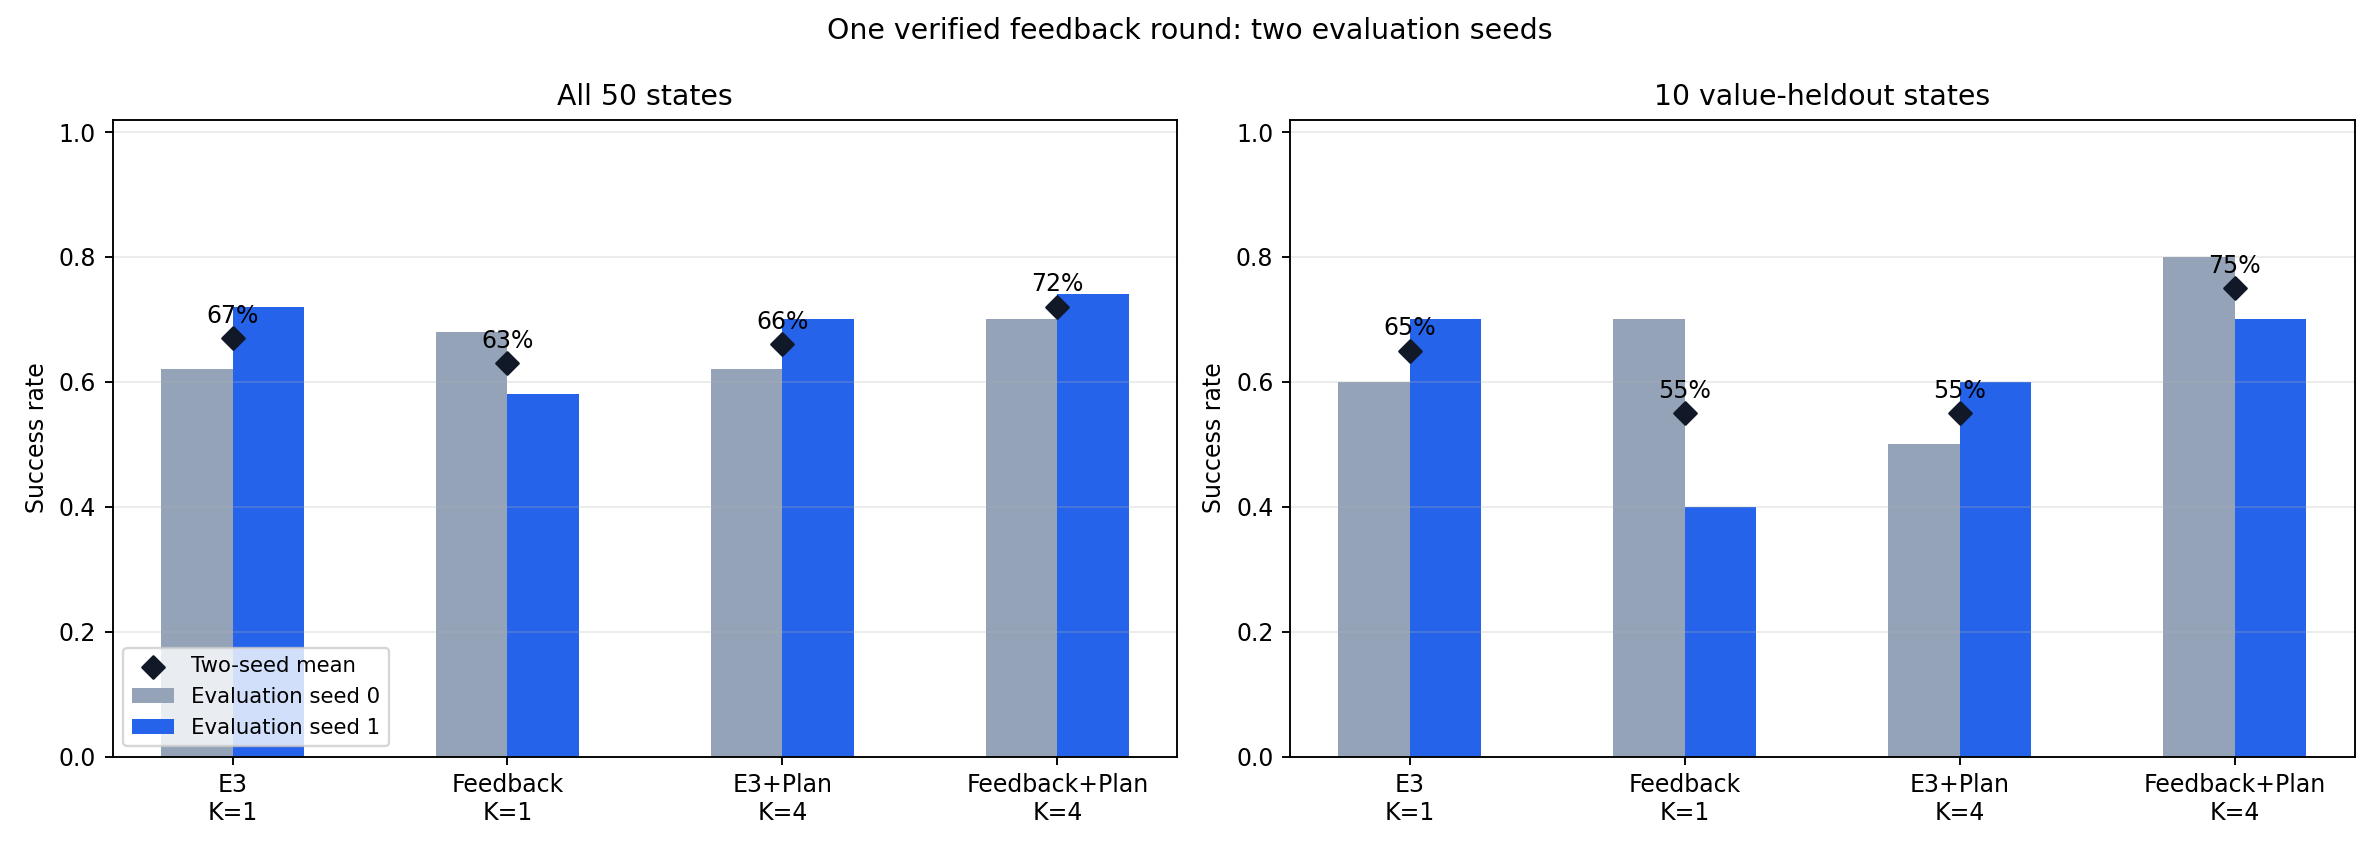
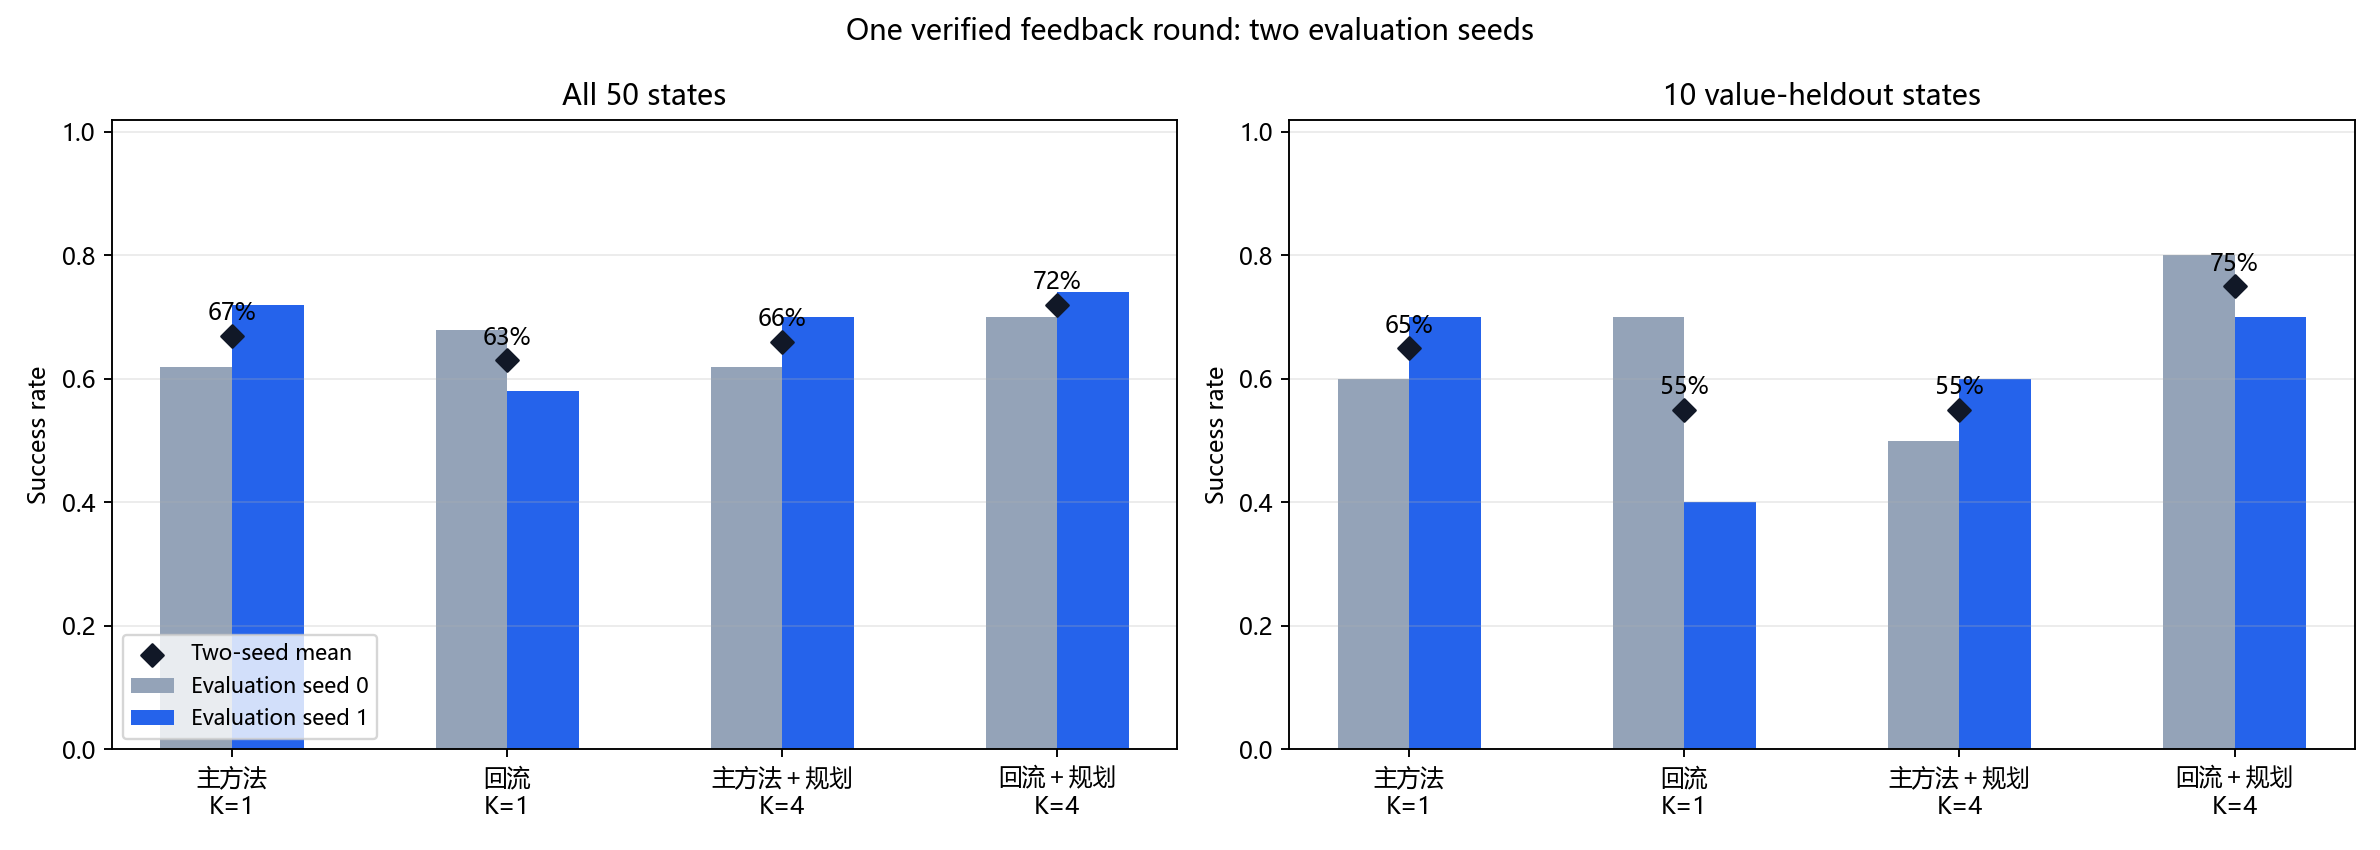
Rename main method on results page

diff --git a/results.html b/results.html
@@ -11,9 +11,9 @@
 <header class="topbar"><nav class="nav" aria-label="页面导航"><a class="brand" href="index.html">SelfEvoVLA</a><a href="index.html" class="">概览</a><a href="method.html" class="">方法</a><a href="results.html" class="active">实验结果</a><a href="demo.html" class="">视频演示</a><a href="data.html" class="">实验数据</a></nav></header>
 <div class="hero"><div class="wrap"><div class="kicker">SelfEvoVLA · 开源研究项目</div><h1>实验结果：有效提升与无效模块都如实呈现</h1><p class="lead">三任务结果、留出状态、两轮回流、K 消融和训练曲线集中展示，便于快速核对数字与结论。</p></div></div>
 <main class="wrap">
-<section><div class="section-head"><div class="kicker">01 · 三任务主结果</div><h2>RIPT 宏平均从 61.3% 提升至 74.7%</h2><p>每个任务使用一个策略训练 seed 和 50 个固定初始状态。主任务采用本轮 K=1 受控口径，与早期单任务历史评估分开。</p></div><div class="table-wrap"><table><thead><tr><th>任务</th><th>SFT</th><th>有界 RIPT</th><th>SFT＋规划</th><th>RIPT＋规划</th></tr></thead><tbody><tr><td>主任务</td><td>31/50（62.0%）</td><td>31/50（62.0%）</td><td>30/50（60.0%）</td><td>31/50（62.0%）</td></tr><tr><td>任务 5</td><td>33/50（66.0%）</td><td>37/50（74.0%）</td><td>28/50（56.0%）</td><td>39/50（78.0%）</td></tr><tr><td>任务 6</td><td>28/50（56.0%）</td><td>44/50（88.0%）</td><td>25/50（50.0%）</td><td>37/50（74.0%）</td></tr><tr class="highlight"><td>宏平均</td><td><strong>61.3%</strong></td><td><strong>74.7%</strong></td><td><strong>55.3%</strong></td><td><strong>71.3%</strong></td></tr></tbody></table></div>
+<section><div class="section-head"><div class="kicker">01 · 三任务主结果</div><h2>RIPT 宏平均从 61.3% 提升至 74.7%</h2><p>每个任务使用一个策略训练 seed 和 50 个固定初始状态。主任务采用本轮 K=1 受控口径，与早期单任务历史评估分开。</p></div><div class="table-wrap"><table><thead><tr><th>任务</th><th>SFT</th><th>主方法</th><th>SFT＋规划</th><th>主方法＋规划</th></tr></thead><tbody><tr><td>主任务</td><td>31/50（62.0%）</td><td>31/50（62.0%）</td><td>30/50（60.0%）</td><td>31/50（62.0%）</td></tr><tr><td>任务 5</td><td>33/50（66.0%）</td><td>37/50（74.0%）</td><td>28/50（56.0%）</td><td>39/50（78.0%）</td></tr><tr><td>任务 6</td><td>28/50（56.0%）</td><td>44/50（88.0%）</td><td>25/50（50.0%）</td><td>37/50（74.0%）</td></tr><tr class="highlight"><td>宏平均</td><td><strong>61.3%</strong></td><td><strong>74.7%</strong></td><td><strong>55.3%</strong></td><td><strong>71.3%</strong></td></tr></tbody></table></div>
 <figure class="figure"><img src="assets/multitask_results.png" alt="三任务全量、留出状态和价值指标图"></figure></section>
-<section><div class="section-head"><div class="kicker">02 · 留出状态</div><h2>规划的收益没有迁移到价值留出状态</h2><p>最后 10 个初始状态不参与价值模型训练或回流。三个任务的 RIPT＋Planning 均低于对应 RIPT，不能选择性使用 Task 5 的全量 78% 作为普遍结论。</p></div><div class="table-wrap"><table><thead><tr><th>任务</th><th>SFT</th><th>有界 RIPT</th><th>SFT＋规划</th><th>RIPT＋规划</th></tr></thead><tbody><tr><td>主任务</td><td>7/10（70.0%）</td><td>6/10（60.0%）</td><td>4/10（40.0%）</td><td>5/10（50.0%）</td></tr><tr><td>任务 5</td><td>5/10（50.0%）</td><td>7/10（70.0%）</td><td>3/10（30.0%）</td><td>5/10（50.0%）</td></tr><tr><td>任务 6</td><td>8/10（80.0%）</td><td>10/10（100.0%）</td><td>2/10（20.0%）</td><td>8/10（80.0%）</td></tr><tr class="highlight"><td>宏平均</td><td><strong>66.7%</strong></td><td><strong>76.7%</strong></td><td><strong>30.0%</strong></td><td><strong>60.0%</strong></td></tr></tbody></table></div></section>
+<section><div class="section-head"><div class="kicker">02 · 留出状态</div><h2>规划的收益没有迁移到价值留出状态</h2><p>最后 10 个初始状态不参与价值模型训练或回流。三个任务的 RIPT＋Planning 均低于对应 RIPT，不能选择性使用 Task 5 的全量 78% 作为普遍结论。</p></div><div class="table-wrap"><table><thead><tr><th>任务</th><th>SFT</th><th>主方法</th><th>SFT＋规划</th><th>主方法＋规划</th></tr></thead><tbody><tr><td>主任务</td><td>7/10（70.0%）</td><td>6/10（60.0%）</td><td>4/10（40.0%）</td><td>5/10（50.0%）</td></tr><tr><td>任务 5</td><td>5/10（50.0%）</td><td>7/10（70.0%）</td><td>3/10（30.0%）</td><td>5/10（50.0%）</td></tr><tr><td>任务 6</td><td>8/10（80.0%）</td><td>10/10（100.0%）</td><td>2/10（20.0%）</td><td>8/10（80.0%）</td></tr><tr class="highlight"><td>宏平均</td><td><strong>66.7%</strong></td><td><strong>76.7%</strong></td><td><strong>30.0%</strong></td><td><strong>60.0%</strong></td></tr></tbody></table></div></section>
 <section><div class="section-head"><div class="kicker">03 · 一轮经验回流</div><h2>组合方法改善，回流单独使用并未改善</h2><p>回流使用 21 条仿真确认成功的规划轨迹、843 个动作块，微调 2 个 epoch。下表同时给出两个评估 seed 和留出均值。</p></div>
 <div class="table-wrap"><table><thead><tr><th>模型与方式</th><th>seed 0</th><th>seed 1</th><th>全量均值</th><th>留出均值</th></tr></thead><tbody><tr><td>原 E3，K=1</td><td>62%</td><td>72%</td><td><strong>67.0%</strong></td><td>65.0%</td></tr><tr><td>回流，K=1</td><td>68%</td><td>58%</td><td><strong>63.0%</strong></td><td>55.0%</td></tr><tr><td>原 E3＋规划，K=4</td><td>62%</td><td>70%</td><td><strong>66.0%</strong></td><td>55.0%</td></tr><tr><td>回流＋规划，K=4</td><td>70%</td><td>74%</td><td><strong>72.0%</strong></td><td>75.0%</td></tr></tbody></table></div>
 <figure class="figure"><img src="assets/feedback_results.png" alt="原 E3 与回流模型在两个评估 seed 下的结果"></figure></section>

diff --git a/planning/build_multitask_report.py b/planning/build_multitask_report.py
@@ -7,6 +7,9 @@ matplotlib.use("Agg")
 import matplotlib.pyplot as plt
 import numpy as np
 
+plt.rcParams["font.sans-serif"] = ["Microsoft YaHei", "Noto Sans CJK SC", "SimHei", "DejaVu Sans"]
+plt.rcParams["axes.unicode_minus"] = False
+
 
 TASKS = {
     "Main": {
@@ -64,7 +67,8 @@ def main():
     for axis, key, title in zip(axes[:2], ("overall", "heldout"), ("All 50 states", "10 value-heldout states")):
         for index, method in enumerate(METHODS):
             values = [summary["tasks"][task]["methods"][method][key]["success_rate"] for task in TASKS]
-            axis.bar(x + (index - 1.5) * width, values, width, label=method, color=colors[index])
+            label = {"RIPT": "主方法", "SFT+Plan": "SFT＋规划", "RIPT+Plan": "主方法＋规划"}.get(method, method)
+            axis.bar(x + (index - 1.5) * width, values, width, label=label, color=colors[index])
         axis.set_xticks(x, list(TASKS))
         axis.set_ylim(0, 1.02)
         axis.set_ylabel("Success rate")

diff --git a/planning/build_report.py b/planning/build_report.py
@@ -7,6 +7,9 @@ matplotlib.use("Agg")
 import matplotlib.pyplot as plt
 import numpy as np
 
+plt.rcParams["font.sans-serif"] = ["Microsoft YaHei", "Noto Sans CJK SC", "SimHei", "DejaVu Sans"]
+plt.rcParams["axes.unicode_minus"] = False
+
 
 EXPERIMENTS = [
     ("sft", 1, "E9-sft-k1"),
@@ -43,7 +46,7 @@ def main():
     fig, axes = plt.subplots(1, 3, figsize=(15, 4.5))
     width = 0.35
     x = np.arange(3)
-    for policy_index, (policy, label, color) in enumerate((("sft", "SFT", "#64748b"), ("e3", "Bounded RIPT", "#2563eb"))):
+    for policy_index, (policy, label, color) in enumerate((("sft", "SFT", "#64748b"), ("e3", "主方法", "#2563eb"))):
         records = [experiments[experiment] for p, _, experiment in EXPERIMENTS if p == policy]
         overall = [record["overall"]["success_rate"] for record in records]
         heldout = [record["state_strata"]["value_heldout_states_40_49"]["success_rate"] for record in records]

diff --git a/planning/build_feedback_report.py b/planning/build_feedback_report.py
@@ -7,6 +7,9 @@ matplotlib.use("Agg")
 import matplotlib.pyplot as plt
 import numpy as np
 
+plt.rcParams["font.sans-serif"] = ["Microsoft YaHei", "Noto Sans CJK SC", "SimHei", "DejaVu Sans"]
+plt.rcParams["axes.unicode_minus"] = False
+
 
 METHODS = {
     "E3, K=1": ("E10-e3-k1", "E10-e3-k1-eval-seed01"),
@@ -59,7 +62,7 @@ def main():
         axis.scatter(x, means, marker="D", color="#111827", s=45, label="Two-seed mean", zorder=3)
         for index, mean in enumerate(means):
             axis.text(index, mean + 0.025, f"{mean:.0%}", ha="center", fontsize=10)
-        axis.set_xticks(x, ["E3\nK=1", "Feedback\nK=1", "E3+Plan\nK=4", "Feedback+Plan\nK=4"])
+        axis.set_xticks(x, ["主方法\nK=1", "回流\nK=1", "主方法＋规划\nK=4", "回流＋规划\nK=4"])
         axis.set_ylim(0, 1.02)
         axis.set_ylabel("Success rate")
         axis.set_title(title)

diff --git a/scripts/build_project_site.py b/scripts/build_project_site.py
@@ -176,7 +176,7 @@ TASK_LABELS = {"Main": "主任务", "Task 5": "任务 5", "Task 6": "任务 6"}
 
 
 def result_table(data, key):
-    labels = {"SFT": "SFT", "RIPT": "有界 RIPT", "SFT+Plan": "SFT＋规划", "RIPT+Plan": "RIPT＋规划"}
+    labels = {"SFT": "SFT", "RIPT": "主方法", "SFT+Plan": "SFT＋规划", "RIPT+Plan": "主方法＋规划"}
     rows = ['<div class="table-wrap"><table><thead><tr><th>任务</th>' + "".join(f"<th>{labels[method]}</th>" for method in labels) + "</tr></thead><tbody>"]
     for task, payload in data["tasks"].items():
         rows.append(f"<tr><td>{TASK_LABELS.get(task, task)}</td>")
